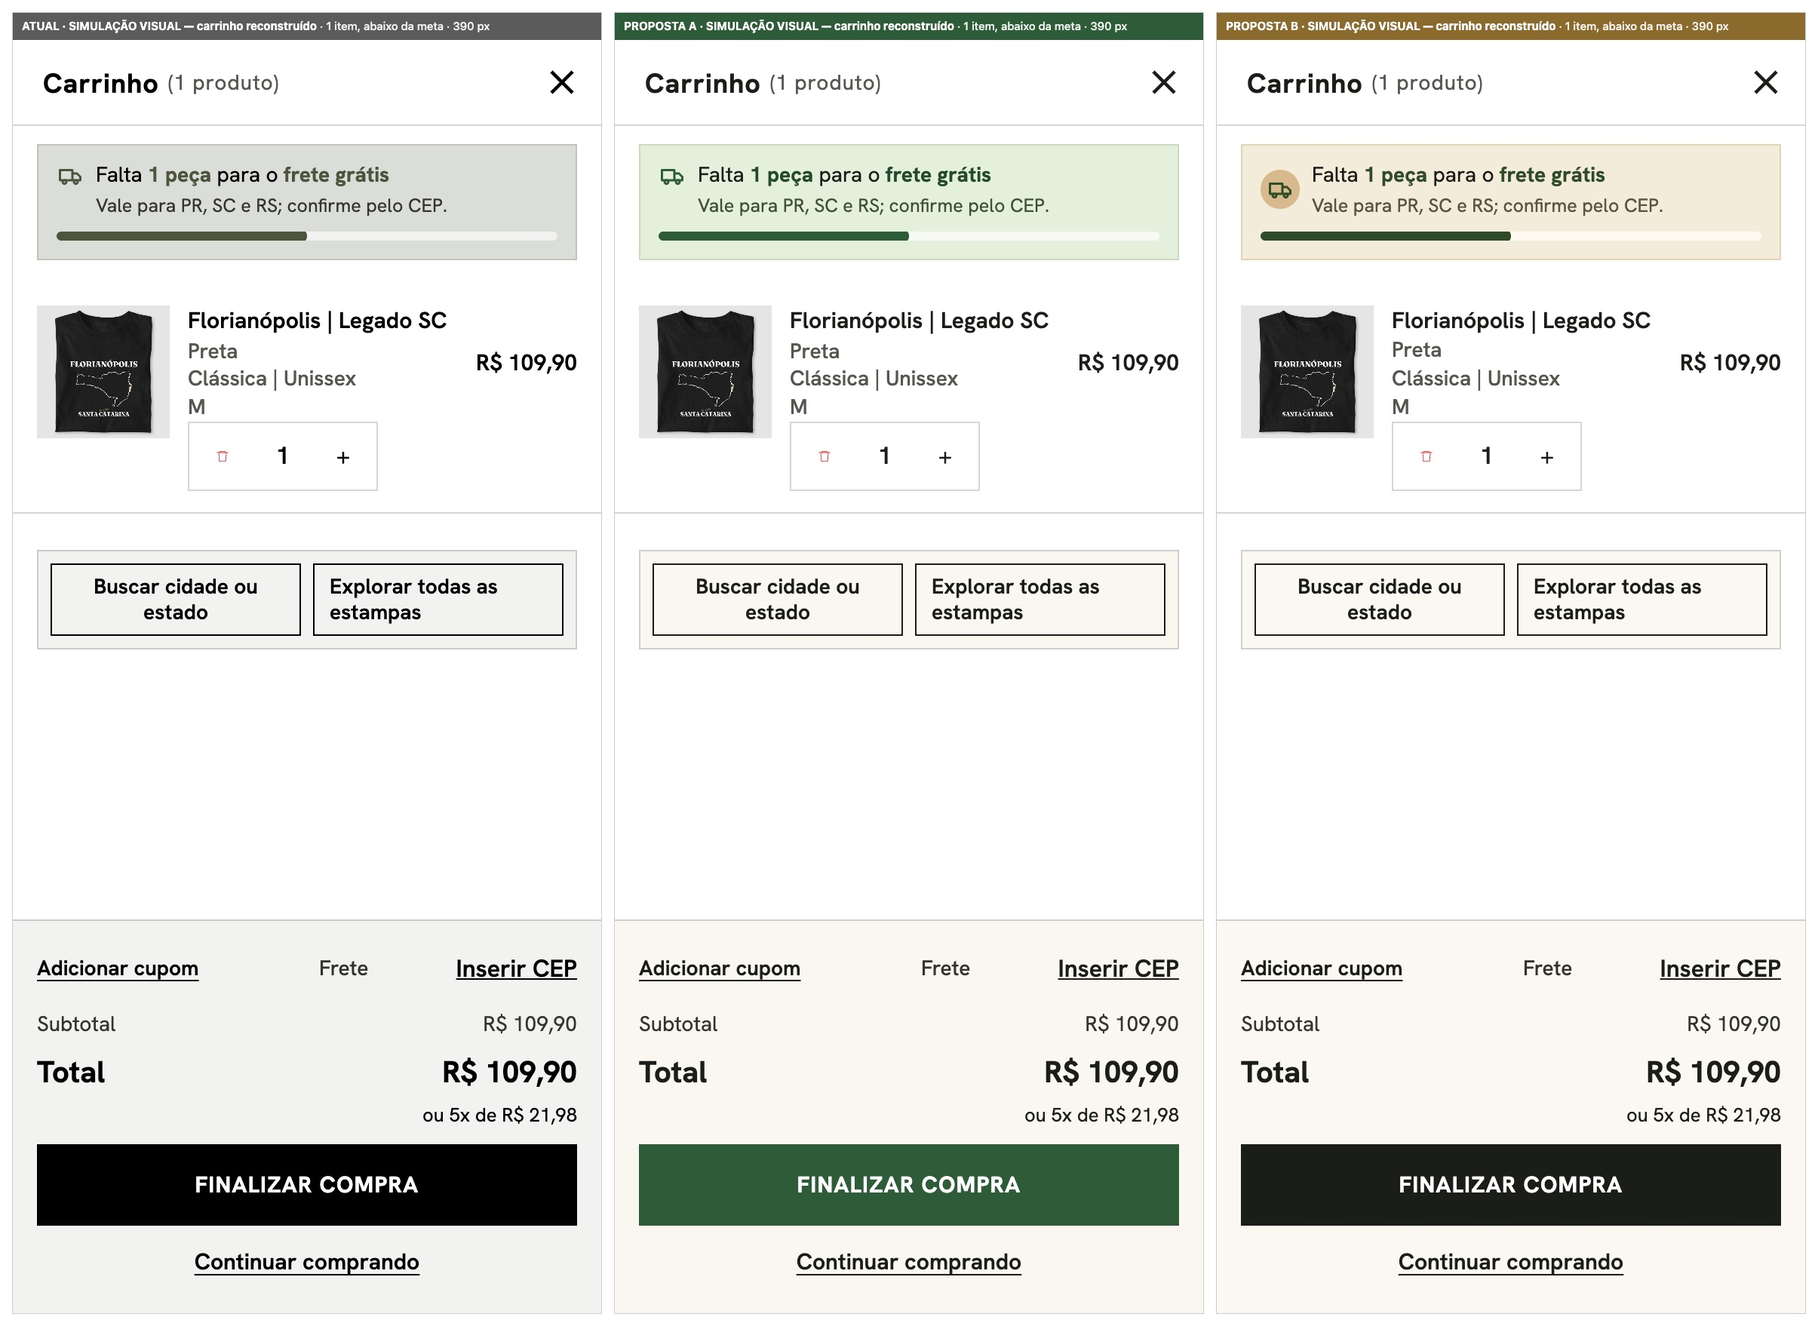
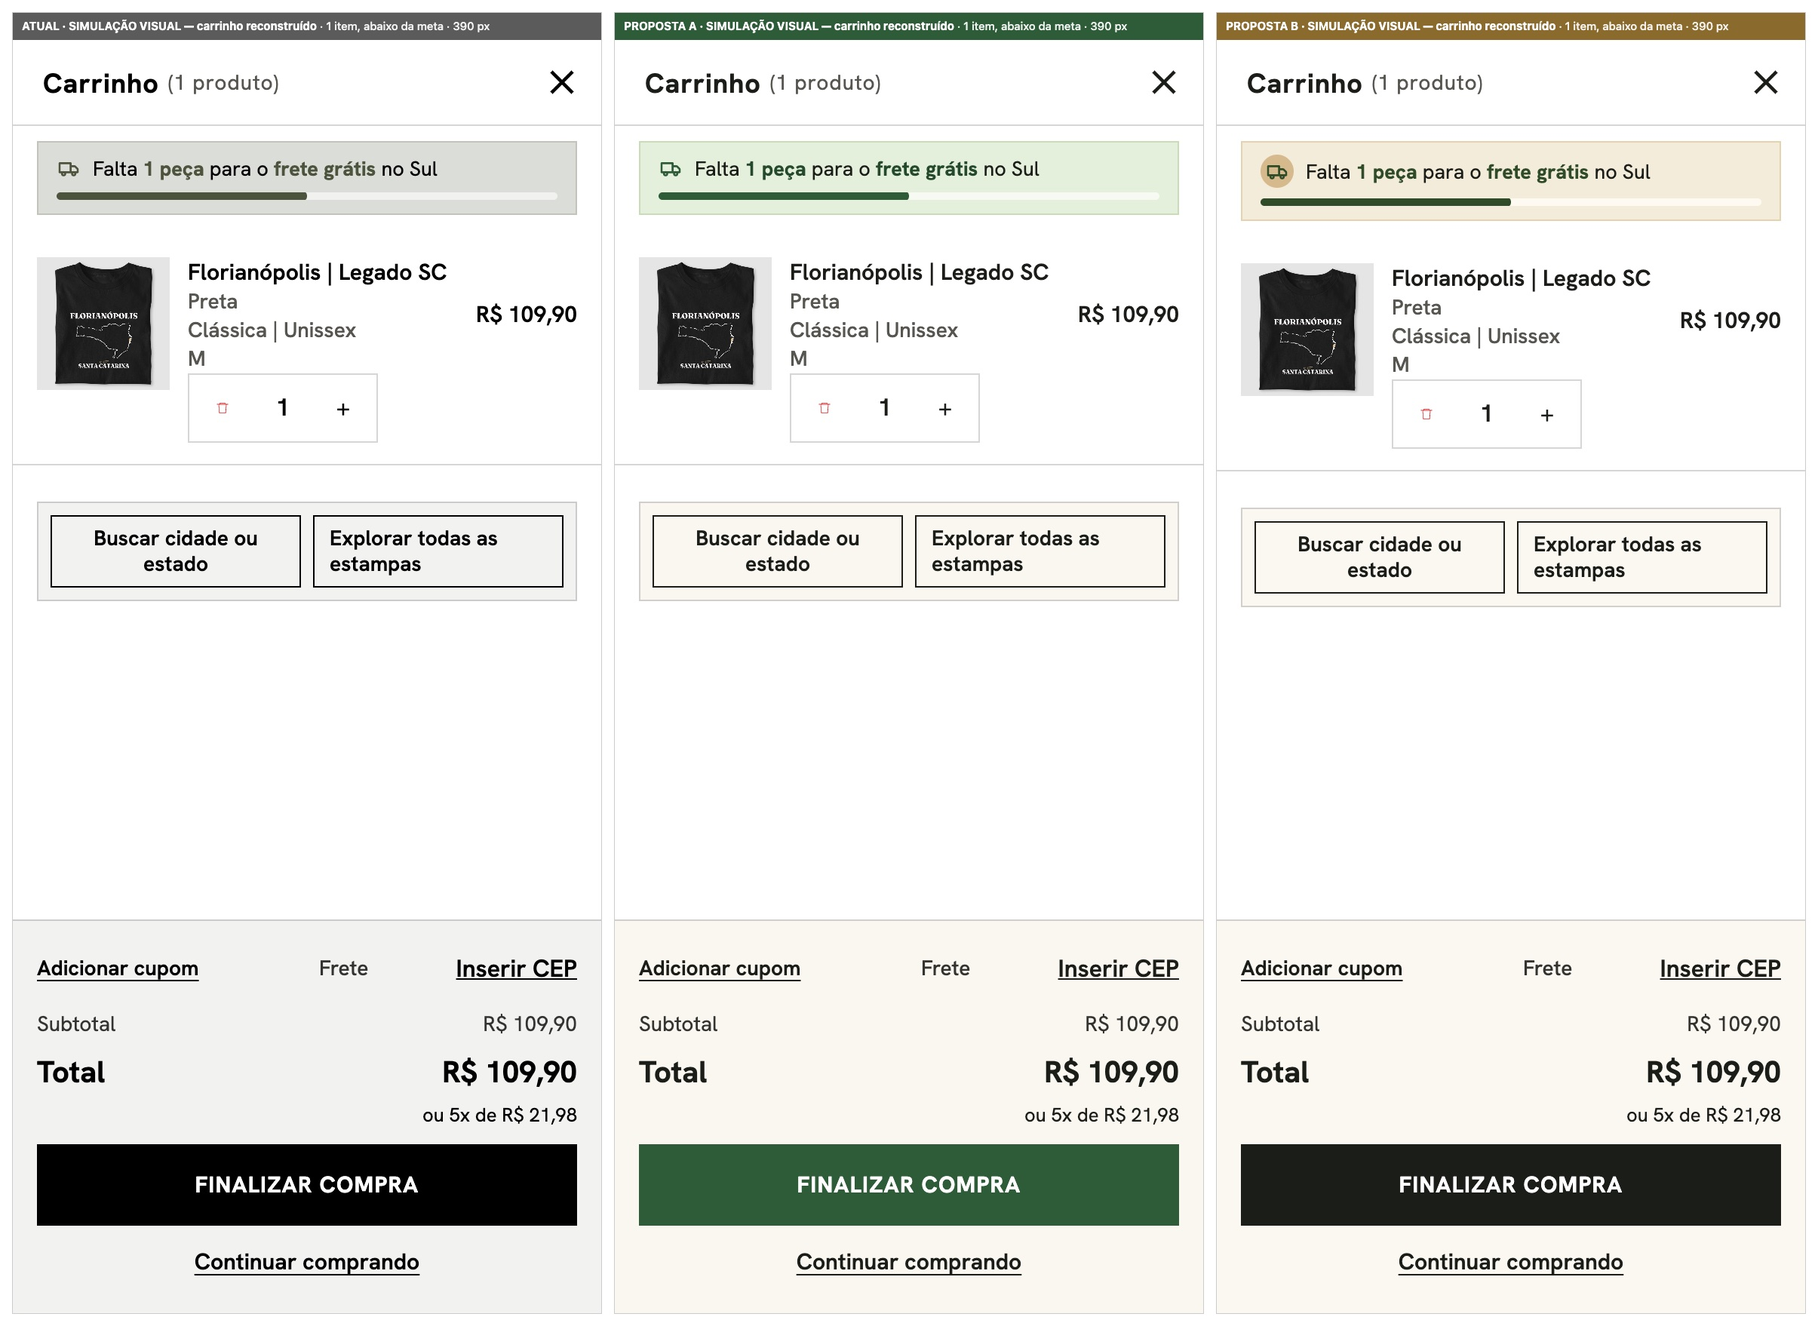
feat(worker): faixa de frete compacta (uma linha + régua fina, como a referência)
~95 px -> ~44 px no topo do carrinho. Mensagens de uma linha:
"Falta 1 peça para o frete grátis no Sul" / "Agora é só confirmar o CEP
para o frete grátis" / "Frete grátis para o seu CEP!" (só com o "Grátis"
da INK) / "O frete grátis vale só para PR, SC e RS". O Worker manda o
rótulo "no Sul" quando a regra cobre a região inteira (senão a mensagem
lista as UFs). Prévia: --proposta A|B e --rotulo para comparar à mão.

diff --git a/src/theme.js b/src/theme.js
@@ -67,10 +67,13 @@ export function normalizeIncentive(raw, store = ACTIVE_STORE) {
   const allowed = store.ufs || [];
   if (!Array.isArray(raw.ufs) || raw.ufs.length === 0 || raw.ufs.length > allowed.length || new Set(raw.ufs).size !== raw.ufs.length) return null;
   if (!raw.ufs.every((uf) => typeof uf === 'string' && UF.test(uf) && allowed.includes(uf))) return null;
-  return { threshold: raw.threshold, ufs: allowed.filter((uf) => raw.ufs.includes(uf)) };
+  const ufs = allowed.filter((uf) => raw.ufs.includes(uf));
+  // Regra que vale para a região inteira: a mensagem diz "no Sul" (curta); senão o carrinho lista as UFs.
+  return { threshold: raw.threshold, ufs, where: ufs.length === allowed.length ? REGION_WHERE[store.region] || '' : '' };
 }
-// Valor do atributo do <body> (só números e siglas validados): "2|PR,SC,RS".
-export const incentiveAttr = (theme) => (theme && theme.incentive ? theme.incentive.threshold + '|' + theme.incentive.ufs.join(',') : '');
+const REGION_WHERE = Object.freeze({ sul: 'no Sul', norte: 'no Norte', 'centro-oeste': 'no Centro-Oeste' });
+// Valor do atributo do <body> (só números, siglas e o rótulo fixo da região): "2|PR,SC,RS|no Sul".
+export const incentiveAttr = (theme) => (theme && theme.incentive ? theme.incentive.threshold + '|' + theme.incentive.ufs.join(',') + (theme.incentive.where ? '|' + theme.incentive.where : '') : '');
 
 // Superfícies que valem AGORA: ligadas no painel E liberadas no deploy. Ordem fixa (a URL do CSS e o atributo do <html> não variam por ordem).
 export const activeSurfaces = (theme, features) => (theme ? SURFACES.filter((s) => theme.surfaces[s] && features.includes(SURFACE_FEATURE[s])) : []);
@@ -155,7 +158,7 @@ function tokensCss(tokens) {
     '--o-incentive-track:color-mix(in srgb,var(--o-selected) 8%,var(--o-surface))', '--o-incentive-fill:var(--o-selected)',
     '--o-choice-line:var(--o-selected)', '--o-choice-ring:var(--o-selected)', '--o-choice-bg:color-mix(in srgb,var(--o-selected) 10%,var(--o-surface))',
     '--o-choice-body:var(--o-choice-bg)', '--o-choice-head:transparent', '--o-choice-mark:var(--o-selected)',
-    '--o-incentive-icon-bg:transparent', '--o-incentive-icon-size:18px', '--o-incentive-icon-pad:0px'
+    '--o-incentive-icon-bg:transparent', '--o-incentive-icon-size:16px', '--o-incentive-icon-pad:0px'
   ].join(';') + '}';
 }
 
@@ -379,13 +382,14 @@ function cartCss() {
     // Incentivo de frete (cart-incentive): no TOPO da lista, logo abaixo do título (rola com os produtos; nenhuma área fixa a mais). Fundo da cor de
     // seleção da marca, perceptível no branco do carrinho; o que falta e o benefício em destaque na mesma cor; a ressalva (destinos, CEP) numa linha
     // menor; régua fina só com meta numérica. Altura mínima de duas linhas + régua: trocar de estado não empurra os produtos. Sem animação contínua.
-    D + ' [data-origens-incentive-slot]{flex:0 0 auto;width:100%;margin:0;padding:12px 16px 4px;list-style:none}',
-    D + ' [data-origens-incentive-box]{display:grid;grid-template-columns:var(--o-incentive-icon-size) minmax(0,1fr);column-gap:8px;row-gap:3px;align-content:center;min-height:76px;padding:10px 12px 12px;border:1px solid var(--o-incentive-line);border-radius:var(--o-radius);background:var(--o-incentive-bg);color:var(--o-incentive-text);font-family:var(--o-font)}',
-    D + ' [data-origens-incentive-box] > svg{grid-row:1;align-self:start;width:var(--o-incentive-icon-size);height:var(--o-incentive-icon-size);margin-top:1px;padding:var(--o-incentive-icon-pad);border-radius:50%;background:var(--o-incentive-icon-bg);color:var(--o-incentive-icon)}',
-    D + ' [data-origens-incentive-box] > p{grid-column:2;margin:0;font-size:14px;line-height:1.35;color:var(--o-incentive-text)}',
+    D + ' [data-origens-incentive-slot]{flex:0 0 auto;width:100%;margin:0;padding:10px 16px 2px;list-style:none}',
+    // Compacto (como a referência): uma linha de texto e a régua fina logo abaixo, ~45 px. Altura mínima igual nos estados com e sem régua.
+    D + ' [data-origens-incentive-box]{display:grid;grid-template-columns:var(--o-incentive-icon-size) minmax(0,1fr);column-gap:8px;align-items:center;align-content:center;min-height:46px;padding:8px 12px 9px;border:1px solid var(--o-incentive-line);border-radius:var(--o-radius);background:var(--o-incentive-bg);color:var(--o-incentive-text);font-family:var(--o-font)}',
+    D + ' [data-origens-incentive-box] > svg{grid-row:1;align-self:center;width:var(--o-incentive-icon-size);height:var(--o-incentive-icon-size);padding:var(--o-incentive-icon-pad);border-radius:50%;background:var(--o-incentive-icon-bg);color:var(--o-incentive-icon)}',
+    D + ' [data-origens-incentive-box] > p{grid-column:2;margin:0;font-size:13.5px;line-height:1.35;color:var(--o-incentive-text)}',
     D + ' [data-origens-incentive-box] > p strong{font-weight:700;color:var(--o-incentive-ink)}',
     D + ' [data-origens-incentive-box] > small{grid-column:2;font-size:12.5px;line-height:1.3;color:var(--o-incentive-soft)}',
-    D + ' [data-origens-incentive-box] .o-incentive-bar{display:block;grid-column:1 / -1;height:6px;margin-top:6px;border-radius:3px;overflow:hidden;background:var(--o-incentive-track)}',
+    D + ' [data-origens-incentive-box] .o-incentive-bar{display:block;grid-column:1 / -1;height:5px;margin-top:7px;border-radius:3px;overflow:hidden;background:var(--o-incentive-track)}',
     D + ' [data-origens-incentive-box] .o-incentive-bar i{display:block;width:100%;height:100%;border-radius:3px;background:var(--o-incentive-fill);transform-origin:left center;transition:transform .25s ease}',
     D + ' [data-origens-incentive-box][data-loading] > *{visibility:hidden}',
     '@media (prefers-reduced-motion:reduce){' + D + ' [data-origens-incentive-box] .o-incentive-bar i{transition:none}}',

diff --git a/test/cart-footer.dom.test.js b/test/cart-footer.dom.test.js
@@ -90,34 +90,42 @@ test('sem o carrinho tematizado (painel desligado ou sem theme-cart no deploy): 
   }
 });
 
-test('incentivo: no TOPO da lista (abaixo do título, antes dos produtos, rola com eles); falta peça (régua), quantidade atingida com CEP pendente, frete grátis da INK, CEP pago — um bloco só', async () => {
-  const t = setup();
+test('incentivo: no TOPO da lista (abaixo do título, antes dos produtos, rola com eles); UMA linha + régua fina; falta peça, quantidade atingida com CEP pendente, frete grátis da INK, CEP pago', async () => {
+  const t = setup({ incentive: '2|PR,SC,RS|no Sul' });
   await tick();
   assert.equal(boxes(t).length, 1);
   const list = t.doc.querySelector('.cart-drawer__main ul');
   const slot = boxes(t)[0].parentElement;
   assert.ok(slot.matches('li[role="none"][data-origens-incentive-slot]') && list.firstElementChild === slot, 'primeiro item da lista rolável');
   assert.ok(!t.doc.querySelector('.cart-drawer__footer [data-origens-incentive-box]'), 'nada no rodapé');
-  assert.deepEqual(say(t), ['Falta 1 peça para o frete grátis', 'Vale para PR, SC e RS; confirme pelo CEP.']);
+  assert.deepEqual(say(t), ['Falta 1 peça para o frete grátis no Sul', ''], 'uma linha só');
   assert.deepEqual([...boxes(t)[0].querySelectorAll('strong')].map((b) => b.textContent), ['1 peça', 'frete grátis'], 'o que falta e o benefício em destaque');
   assert.equal(boxes(t)[0].querySelector('.o-incentive-bar i').style.transform, 'scaleX(0.5)', 'régua por transform (sem animar layout)');
   assert.equal(boxes(t)[0].getAttribute('role'), 'status');
   rerender(t, { qty: 2 });
   await tick();
-  assert.deepEqual(say(t), ['Você já tem a quantidade necessária.', 'Confirme seu CEP para verificar o frete grátis (PR, SC e RS).']);
+  assert.deepEqual(say(t), ['Agora é só confirmar o CEP para o frete grátis', '']);
   assert.equal(boxes(t)[0].querySelector('.o-incentive-bar i').style.transform, 'scaleX(1)', 'régua cheia, mas o texto não promete o frete');
   rerender(t, { qty: 3, shipping: 'Grátis' });
   await tick();
-  assert.deepEqual(say(t), ['Frete grátis disponível para o seu CEP', 'Valor calculado pela INK para o CEP informado.']);
+  assert.deepEqual(say(t), ['Frete grátis para o seu CEP!', '']);
   rerender(t, { qty: 3, shipping: 'R$ 27,49' });
   await tick();
-  assert.deepEqual(say(t), ['O frete grátis com 2 peças vale para PR, SC e RS.', 'Para este CEP, o frete é cobrado.'], 'nunca sucesso com frete cobrado');
+  assert.deepEqual(say(t), ['O frete grátis vale só para PR, SC e RS', ''], 'nunca sucesso com frete cobrado');
   assert.equal(boxes(t)[0].querySelector('.o-incentive-bar'), null);
   rerender(t, { qty: 1 });
   await tick();
-  assert.deepEqual(say(t)[0], 'Falta 1 peça para o frete grátis', 'removeu: volta a faltar');
-  assert.equal(boxes(t).length, 1);
+  assert.deepEqual(say(t)[0], 'Falta 1 peça para o frete grátis no Sul', 'removeu: volta a faltar');
   assert.equal(t.doc.querySelectorAll('[data-origens-incentive-slot]').length, 1);
+});
+
+test('incentivo: regra só para parte da região = as UFs na mensagem; rótulo de região desconhecido é recusado', async () => {
+  let t = setup({ incentive: '2|PR,SC' });
+  await tick();
+  assert.deepEqual(say(t)[0], 'Falta 1 peça para o frete grátis em PR e SC');
+  t = setup({ incentive: '2|PR,SC,RS|<b>x</b>' });
+  await tick();
+  assert.equal(boxes(t).length, 0);
 });
 
 test('incentivo: some sem regra, sem a feature, com carrinho vazio ou quando a régua NATIVA da INK aparece (um aviso só)', async () => {
@@ -136,13 +144,13 @@ test('incentivo durante a resposta da INK: conteúdo escondido (sem mensagem vel
   rerender(t, { qty: 2 });
   await tick();
   assert.ok(!boxes(t)[0].hasAttribute('data-loading'));
-  assert.match(say(t)[0], /^Você já tem a quantidade necessária/);
+  assert.match(say(t)[0], /^Agora é só confirmar o CEP/);
   submit(t, 'turbo:submit-start');
   assert.ok(boxes(t)[0].hasAttribute('data-loading'));
   submit(t, 'turbo:submit-end', { success: false });
   await tick();
   assert.ok(!boxes(t)[0].hasAttribute('data-loading'));
-  assert.match(say(t)[0], /^Você já tem a quantidade necessária/);
+  assert.match(say(t)[0], /^Agora é só confirmar o CEP/);
 });
 
 test('Turbo: página nova sem o carrinho tematizado = nenhum botão, nenhum incentivo, cupom à mostra; com tema = um de cada (sem duplicar)', async () => {

diff --git a/src/loader/theme-ui.js b/src/loader/theme-ui.js
@@ -325,8 +325,8 @@ export const THEME_UI = String.raw`
     row.before(toggle);
   }
   function themeIncentiveRule() {
-    const m = /^(\d{1,2})\|([A-Z]{2}(?:,[A-Z]{2})*)$/.exec((themeBody() && themeBody().getAttribute('data-origens-incentive')) || '');
-    return THEME_INCENTIVE && m ? { threshold: Number(m[1]), ufs: m[2].split(',') } : null;
+    const m = /^(\d{1,2})\|([A-Z]{2}(?:,[A-Z]{2})*)(?:\|(no (?:Sul|Norte|Centro-Oeste)))?$/.exec((themeBody() && themeBody().getAttribute('data-origens-incentive')) || '');
+    return THEME_INCENTIVE && m ? { threshold: Number(m[1]), ufs: m[2].split(','), where: m[3] || '' } : null;
   }
   const themeUfs = (ufs) => (ufs.length > 1 ? ufs.slice(0, -1).join(', ') + ' e ' + ufs[ufs.length - 1] : ufs[0]);
   const themePieces = (n) => n + (n === 1 ? ' peça' : ' peças');
@@ -342,15 +342,16 @@ export const THEME_UI = String.raw`
     const free = /gr[aá]tis/i.test(shipping);
     const paid = !free && /R\$\s*\d/.test(shipping);
     const ufs = themeUfs(rule.ufs);
+    const where = rule.where || 'em ' + ufs;
     const pct = Math.min(100, Math.round((count / rule.threshold) * 100));
-    // Linha principal (o que falta ou o estado, com o essencial em destaque) e a ressalva; a cor só complementa o texto.
-    if (free) return { key: 'free', parts: [['b', 'Frete grátis'], ['', ' disponível para o seu CEP']], sub: 'Valor calculado pela INK para o CEP informado.', bar: 100 };
+    // UMA linha (o essencial em destaque) e a régua fina: compacto como a referência. A cor só complementa o texto; a régua cheia nunca promete o frete.
+    if (free) return { key: 'free', parts: [['b', 'Frete grátis'], ['', ' para o seu CEP!']], sub: '', bar: 100 };
     if (count < rule.threshold) {
       const n = rule.threshold - count;
-      return { key: 'need-' + count, parts: [['', n === 1 ? 'Falta ' : 'Faltam '], ['b', themePieces(n)], ['', ' para o '], ['b', 'frete grátis']], sub: 'Vale para ' + ufs + '; confirme pelo CEP.', bar: pct };
+      return { key: 'need-' + count, parts: [['', n === 1 ? 'Falta ' : 'Faltam '], ['b', themePieces(n)], ['', ' para o '], ['b', 'frete grátis'], ['', ' ' + where]], sub: '', bar: pct };
     }
-    if (paid) return { key: 'paid-' + count, parts: [['', 'O frete grátis com ' + themePieces(rule.threshold) + ' vale para ' + ufs + '.']], sub: 'Para este CEP, o frete é cobrado.', bar: -1 };
-    return { key: 'reached-' + count, parts: [['b', 'Você já tem a quantidade necessária.']], sub: 'Confirme seu CEP para verificar o frete grátis (' + ufs + ').', bar: 100 };
+    if (paid) return { key: 'paid-' + count, parts: [['', 'O frete grátis vale só para '], ['b', ufs]], sub: '', bar: -1 };
+    return { key: 'reached-' + count, parts: [['', 'Agora é só '], ['b', 'confirmar o CEP'], ['', ' para o frete grátis']], sub: '', bar: 100 };
   }
   const THEME_TRUCK = '<svg viewBox="0 0 24 24" width="20" height="20" fill="none" stroke="currentColor" stroke-width="2" stroke-linecap="round" stroke-linejoin="round" aria-hidden="true" focusable="false"><path d="M3 7h11v9H3zM14 10h4l3 3v3h-7"/><circle cx="7" cy="17.5" r="1.6"/><circle cx="17" cy="17.5" r="1.6"/></svg>';
   function themeIncentive() {

diff --git a/test/theme.unit.test.js b/test/theme.unit.test.js
@@ -137,14 +137,16 @@ test('CSS: never hides INK purchase content; display/visibility only where liste
 
 test('incentive: só ligado, frete grátis por PEÇAS, meta 2–20, UFs desta região; inválido = sem incentivo (o tema continua); atributo só com números e siglas', () => {
   const ok = { enabled: true, kind: 'free-shipping', unit: 'items', threshold: 2, ufs: ['RS', 'PR', 'SC'] };
-  assert.deepEqual(normalizeIncentive(ok), { threshold: 2, ufs: ['PR', 'SC', 'RS'] }, 'ordem da região');
+  assert.deepEqual(normalizeIncentive(ok), { threshold: 2, ufs: ['PR', 'SC', 'RS'], where: 'no Sul' }, 'ordem da região; a região inteira = "no Sul"');
+  assert.deepEqual(normalizeIncentive({ ...ok, ufs: ['SC', 'PR'] }), { threshold: 2, ufs: ['PR', 'SC'], where: '' }, 'parte da região: o carrinho lista as UFs');
   for (const bad of [{ ...ok, enabled: false }, { ...ok, kind: 'discount' }, { ...ok, unit: 'value' }, { ...ok, threshold: 1 }, { ...ok, threshold: 21 }, { ...ok, threshold: '2' },
     { ...ok, ufs: [] }, { ...ok, ufs: ['SP'] }, { ...ok, ufs: ['PR', 'PR'] }, { ...ok, ufs: ['pr'] }, { ...ok, ufs: 'PR' }, null, 'x']) {
     assert.equal(normalizeIncentive(bad), null, JSON.stringify(bad));
   }
   const themed = normalizeTheme(clone({ incentive: ok }));
-  assert.deepEqual(themed.incentive, { threshold: 2, ufs: ['PR', 'SC', 'RS'] });
-  assert.equal(incentiveAttr(themed), '2|PR,SC,RS');
+  assert.deepEqual(themed.incentive, { threshold: 2, ufs: ['PR', 'SC', 'RS'], where: 'no Sul' });
+  assert.equal(incentiveAttr(themed), '2|PR,SC,RS|no Sul');
+  assert.equal(incentiveAttr(normalizeTheme(clone({ incentive: { ...ok, ufs: ['PR'] } }))), '2|PR');
   const broken = normalizeTheme(clone({ incentive: { ...ok, ufs: ['SP'] } }));
   assert.ok(broken && broken.incentive === null, 'incentivo inválido não derruba o tema');
   assert.equal(incentiveAttr(broken), '');

diff --git a/test/theme.workerd.test.js b/test/theme.workerd.test.js
@@ -65,7 +65,7 @@ test('incentivo: com theme-cart + cart-incentive e regra válida publicada, a re
   // Uma instância por cenário (a configuração fica 60 s em cache por isolate).
   storefront = () => Response.json({ ...themeOf({ pdp: true, cart: true, checkout: true }), incentive: rule });
   let html = await (await get(INC, PDP, {}, { CASE: 'ok' })).text();
-  assert.match(html, /<body class="font-poppins" data-origens-theme="pdp cart" data-origens-incentive="2\|PR,SC,RS">/);
+  assert.match(html, /<body class="font-poppins" data-origens-theme="pdp cart" data-origens-incentive="2\|PR,SC,RS\|no Sul">/);
   const k = await (await get(INC, PAYMENT, {}, { CASE: 'ok' })).text();
   assert.doesNotMatch(k, /data-origens-incentive/, 'checkout: nada além do tema');
   html = await (await get(ALL, PDP, {}, { CASE: 'no-feature' })).text();

diff --git a/docs/RELATORIO_DIRECAO_DE_ARTE_CORES_INK.md b/docs/RELATORIO_DIRECAO_DE_ARTE_CORES_INK.md
@@ -58,8 +58,12 @@ As duas mexem **só nos papéis de cor** do carrinho e do checkout (seção 6), 
 - **Opção escolhida:** borda de **1 px** sem o anel extra. A cor fica no cabeçalho, e a área aberta do cartão é branca, então os campos aparecem e há pouco fundo colorido.
 - **O que não muda:** erro em vermelho (`#b42318`), sucesso da INK em verde (`#1f6f43`) e o contorno de foco grosso (2 px na cor do texto).
 - **Seleção de texto e cursor:** seguem a paleta da proposta.
-- **Texto da meta atingida, CEP pendente:** passou a "**Você já tem a quantidade necessária.**", com "Confirme seu CEP para verificar o frete grátis (PR, SC e RS)." embaixo. A régua cheia não promete o frete.
-- **Altura da faixa:** igual nas três versões; o círculo da B ocupa as duas linhas.
+- **Faixa de frete compacta** (pedido seu, com a sacola da Aphago como referência): **uma linha e a régua fina** logo abaixo, com cerca de 44 px; antes eram cerca de 95 px. As mensagens:
+  - abaixo da meta: "Falta **1 peça** para o **frete grátis** no Sul" (o rótulo "no Sul" vem do Worker quando a regra cobre a região inteira; senão, "em PR e SC");
+  - meta atingida: "Agora é só **confirmar o CEP** para o frete grátis", com a régua cheia, sem prometer o frete;
+  - a INK mostra "Grátis": "**Frete grátis** para o seu CEP!";
+  - a INK cobra frete: "O frete grátis vale só para **PR, SC e RS**", sem régua.
+- **Altura da faixa:** igual nas três versões; o círculo da B tem 22 px.
 
 ## 4. Recomendação: B
 
@@ -101,4 +105,4 @@ Todas as comparações usam o mesmo código, os mesmos dados, o mesmo estado e o
 - **Simulado:** todas as capturas de carrinho (gaveta reconstruída, código real do tema), com a **regra de exemplo** (2 peças, PR/SC/RS) ainda **não confirmada**. Ela não foi promovida a regra de produção.
 - **Checkout:** estrutura real, com os dados pessoais trocados por fictícios antes do navegador. A mensagem de erro é a validação real da INK no navegador. Os envios de pagamento, contato e entrega ficaram abortados.
 - **Pendente:** carrinho real (itens, quantidade, remoção, cupom, CEP e elegibilidade). Adicionar pela automação foi recusado; não tentei de outro jeito. Nenhum pedido ou pagamento foi feito.
-- **Testes:** Worker `npm test` 585/585; QA geral com checkout 65/65; liga/desliga 21/21; galeria 163/163; detector do Impeccable limpo.
+- **Testes:** Worker `npm test` 586/586; QA geral com checkout 65/65; liga/desliga 21/21; galeria 163/163; detector do Impeccable limpo.
